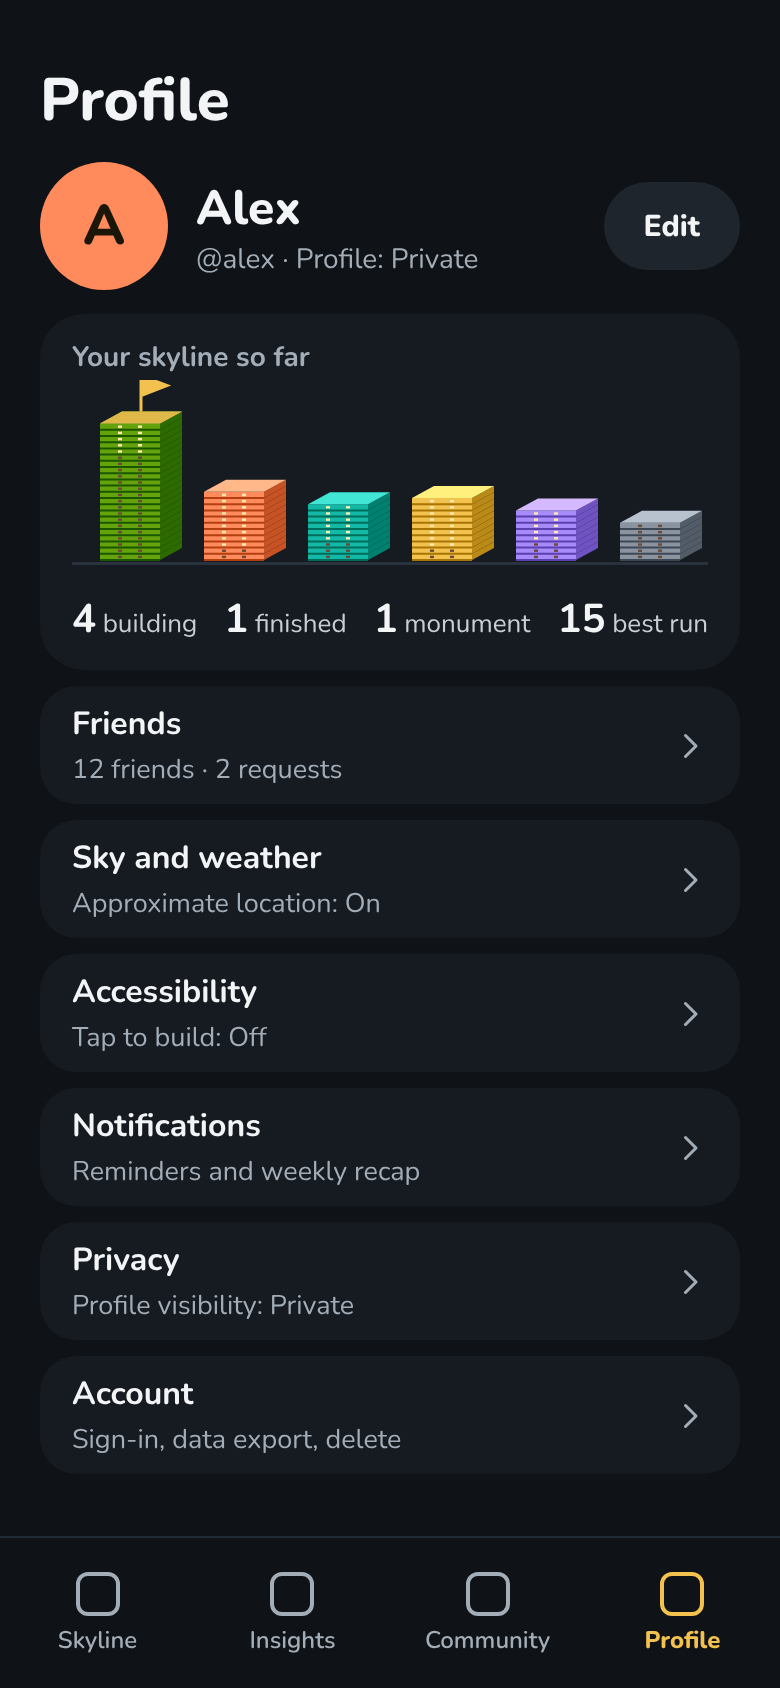
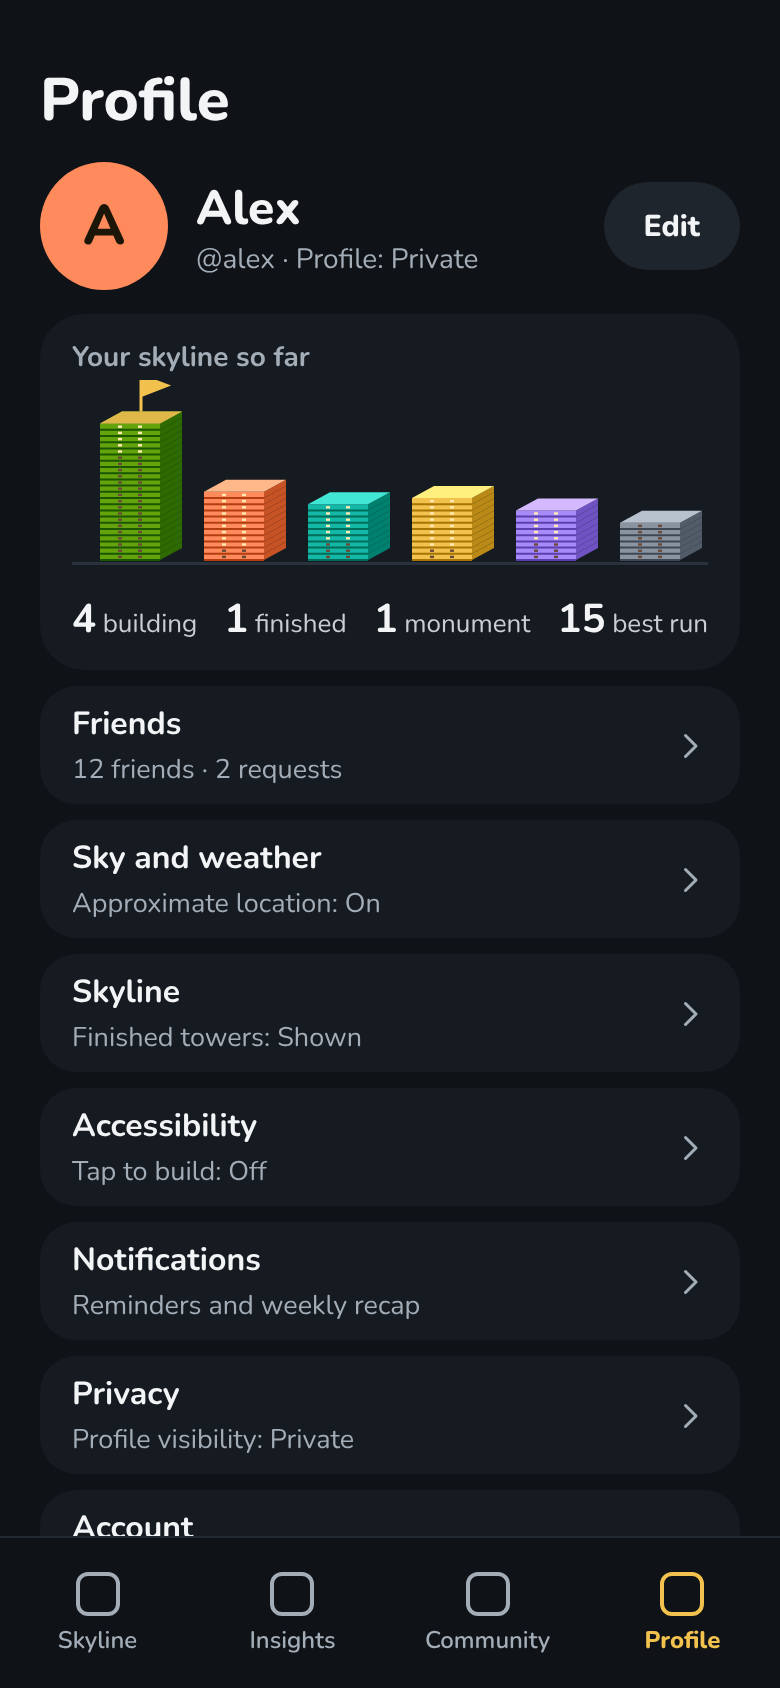
Design: show/hide finished towers (settings, per-habit override, combined list)
Claude-Session: https://claude.ai/code/session_01UvWD32uMFJU1E2B9jDYiLg

diff --git a/design/skyline/source/old.js b/design/skyline/source/old.js
@@ -1,7 +1,7 @@
 // Redraws of boards 02, 04, 05, 08, 09, 10, 11, 15 with the current floor art
 (function(){
 const Q3=new URLSearchParams(location.search);const S3=Q3.get('s');
-if(!/^(cm-|sh-|ch-|pf-|ho-|to-|sk-|ft-)/.test(S3||''))return;
+if(!/^(cm-|sh-|ch-|pf-|ho-|to-|sk-|ft-|fx-)/.test(S3||''))return;
 const R=document.getElementById('root');
 const tw=(col,o)=>{const old=C.front;C.front=col;const r=tower(o);C.front=old;return r};
 const grow=(n,lit,over={})=>Array.from({length:n},(_,i)=>over[i]||(i>=n-lit?'lit':'dark'));
@@ -76,7 +76,7 @@ if(S3==='pf-profile'){
    <div style="display:flex;align-items:center;gap:14px;margin-top:10px"><div style="width:64px;height:64px;border-radius:32px;background:#FF8A5C;color:#1b1608;font-weight:800;font-size:28px;display:flex;align-items:center;justify-content:center">A</div><div style="flex:1"><div style="font-size:24px;font-weight:800">Alex</div><div style="color:#A3ADB8;font-size:14px">@alex · Profile: Private</div></div><div style="height:44px;padding:0 20px;border-radius:22px;background:#1E252D;display:flex;align-items:center;font-weight:800;font-size:15px">Edit</div></div>
    <div style="margin-top:12px;background:#161B21;border-radius:22px;padding:12px 16px"><div style="color:#A3ADB8;font-size:14px;font-weight:700">Your skyline so far</div><svg width="318" height="98" style="display:block;margin-top:2px">${sc}<rect x="0" y="91" width="318" height="1.5" fill="#2A333D"/></svg>
     <div style="display:flex;justify-content:space-between;margin-top:8px;font-size:13px;color:#C9CED4">${[['4','building'],['1','finished'],['1','monument'],['15','best run']].map(([v,l])=>`<span><b style="font-size:20px;color:#F2F4F6">${v}</b> ${l}</span>`).join('')}</div></div>
-   ${row('Friends','12 friends · 2 requests')}${row('Sky and weather','Approximate location: On')}${row('Accessibility','Tap to build: Off')}${row('Notifications','Reminders and weekly recap')}${row('Privacy','Profile visibility: Private')}${row('Account','Sign-in, data export, delete')}</div></div>${tabBar(3)}`;
+   ${row('Friends','12 friends · 2 requests')}${row('Sky and weather','Approximate location: On')}${row('Skyline','Finished towers: Shown')}${row('Accessibility','Tap to build: Off')}${row('Notifications','Reminders and weekly recap')}${row('Privacy','Profile visibility: Private')}${row('Account','Sign-in, data export, delete')}</div></div>${tabBar(3)}`;
 }
 
 const night=(w,h,id)=>`<defs><linearGradient id="${id}" x1="0" y1="0" x2="0" y2="1"><stop offset="0" stop-color="#0B1030"/><stop offset="1" stop-color="#232a5a"/></linearGradient></defs><rect width="${w}" height="${h}" fill="url(#${id})"/>${Array.from({length:60},(_,i)=>`<circle cx="${(i*97)%w}" cy="${(i*53)%(h-60)+6}" r="${i%3?.9:1.4}" fill="#dfe6ff" opacity="${.35+(i%4)*.15}"/>`).join('')}`;
@@ -163,7 +163,23 @@ if(S3==='ft-sheet'){
    <div style="display:flex;gap:8px;margin-top:6px">${tile('26','Total built')}${tile('17 days','Best run here')}${tile('Sep 13','Started')}</div>
    <div style="color:#A3ADB8;font-size:13.5px;line-height:1.5;margin-top:12px">This tower stays on your skyline behind the new one. Your run carried over to the new tower.</div>
    <div style="margin-top:14px;height:54px;border-radius:27px;background:#F2C14E;color:#1b1608;font-weight:800;font-size:16.5px;display:flex;align-items:center;justify-content:center">See inside</div>
-   <div style="margin-top:4px;height:46px;display:flex;align-items:center;justify-content:center;font-weight:800;font-size:15px;color:#C9CED4">Close</div></div></div>`;
+   <div style="margin-top:2px;height:42px;display:flex;align-items:center;justify-content:center;font-weight:800;font-size:14.5px;color:#A3ADB8">Hide finished towers for Push ups</div><div style="height:40px;display:flex;align-items:center;justify-content:center;font-weight:800;font-size:15px;color:#C9CED4">Close</div></div></div>`;
+}
+
+const sw=(on)=>`<div style="width:52px;height:30px;border-radius:15px;background:${on?'#F2C14E':'#2F3944'};position:relative;flex:0 0 52px"><i style="position:absolute;top:3px;${on?'right:3px':'left:3px'};width:24px;height:24px;border-radius:12px;background:${on?'#1b1608':'#A3ADB8'};display:block"></i></div>`;
+if(S3==='fx-settings'){
+  R.innerHTML=`<div style="position:absolute;inset:0;overflow:hidden"><div style="padding:30px 20px 0"><div style="font-size:17px;font-weight:700">‹&nbsp; Profile</div><h1 style="font-size:30px;margin-top:14px">Skyline</h1></div>
+  <div style="padding:16px 20px 0"><div style="background:#161B21;border-radius:18px;padding:16px;display:flex;align-items:center;gap:14px"><div style="flex:1"><b style="font-size:16px">Show finished towers</b><div style="color:#A3ADB8;font-size:13.5px;line-height:1.45;margin-top:3px">Finished towers stay on your skyline, faded behind the current one. Turn this off to see only current towers.</div></div>${sw(true)}</div>
+  <div style="color:#A3ADB8;font-size:13.5px;line-height:1.5;margin:14px 4px 0">You can still open finished towers from the Retired and finished list. You can also change this for one habit in its Edit screen.</div></div></div>${tabBar(3)}`;
+}
+if(S3==='fx-list'){
+  const fin=[['Push ups','Topped out Oct 12 · 30 days','#A78BFA'],['Read 10 minutes','Topped out Sep 3 · 30 days','#38BDF8'],['Write 300 words','You topped it out Aug 18 · 21 days','#F2C14E']];
+  const ret=[['Drink water','heart-pulse'],['Meditate','meditation']];
+  const hd=(t)=>`<div style="color:#A3ADB8;font-size:12px;font-weight:800;letter-spacing:.8px;margin:18px 0 4px">${t}</div>`;
+  R.innerHTML=`<div style="position:absolute;inset:0;overflow:hidden"><div style="display:flex;align-items:center;justify-content:space-between;padding:30px 20px 10px"><div style="width:44px;height:44px;border-radius:22px;background:#1E252D;display:flex;align-items:center;justify-content:center;font-size:20px;color:#A3ADB8">×</div><div style="font-size:17px;font-weight:800">Retired and finished</div><div style="width:44px"></div></div>
+  <div style="padding:0 20px">${hd('FINISHED TOWERS')}${fin.map(([n,s,c])=>`<div style="display:flex;align-items:center;gap:12px;min-height:66px;border-bottom:1px solid #1F262E"><svg width="36" height="44" style="flex:0 0 36px">${tw('#7A6A58',{x:6,base:40,w:18,fh:1.9,dx:7,dy:4,floors:rep('dark',18),windows:1,today:false,wW:1.5,wH:.8})}<rect x="6" y="2" width="18" height="2" fill="${c}"/></svg><div style="flex:1;min-width:0"><div style="font-weight:700;font-size:15.5px">${n}</div><div style="color:#A3ADB8;font-size:13px;margin-top:1px">${s}</div></div>${ico('chev',18,'#A3ADB8')}</div>`).join('')}
+  ${hd('RETIRED TOWERS')}${ret.map(([n,i])=>`<div style="display:flex;align-items:center;gap:12px;min-height:64px;border-bottom:1px solid #1F262E"><div style="width:40px;height:40px;border-radius:12px;background:#232b34"></div><div style="flex:1;font-weight:700;font-size:15.5px;color:#C9CED4">${n}</div><div style="color:#F2C14E;font-weight:800;font-size:14.5px;padding:10px 6px">Restore</div><div style="padding:10px 6px;color:#7C8794;font-size:18px">🗑</div></div>`).join('')}
+  <div style="color:#A3ADB8;font-size:13px;margin-top:16px;line-height:1.45">Finished towers can be hidden from your skyline in Profile, Skyline. They stay here either way.</div></div></div>${tabBar(0)}`;
 }
 
 //END

diff --git a/design/skyline/source/new.js b/design/skyline/source/new.js
@@ -140,7 +140,7 @@ if(S2==='fo-landmark'){
 }
 if(S2==='fo-edit'){
   R.innerHTML=formPage('Edit tower','Changes apply from today. Your floors and run stay as they are.','',
-   lab('Name your tower')+inp('Write 300 words')+lab('Category')+`<div style="display:flex;gap:8px;overflow:hidden">${chip('Creativity','#F2C14E',1)}${chip('Learning','#38BDF8')}${chip('Fitness','#FF8A5C')}${chip('Sleep','#A78BFA')}</div>`+lab('Tower color')+swatches(1)+hint('Used for this tower on your skyline and in Insights.')+lab('How often do you build a floor?')+seg2(['Daily','Weekly','Monthly'],0)+lab('What counts as a floor?')+seg2(['Check-off','An amount'],1)+stepRow('Amount per floor','300 words')+lab('Best time (optional)')+inp('8:00 PM')+lab('Why does this matter? (optional)')+inp('So the book gets finished')+lab('Top out after (days)')+`<div style="margin-top:0;height:56px;border-radius:16px;background:#161B21;display:flex;align-items:center;justify-content:space-between;padding:0 14px 0 16px"><b style="font-size:15px">Days</b><div style="display:flex;align-items:center;gap:14px"><div style="width:36px;height:36px;border-radius:18px;border:1px solid #2F3944;display:flex;align-items:center;justify-content:center;font-size:20px">−</div><b style="font-size:15px;min-width:76px;text-align:center">30</b><div style="width:36px;height:36px;border-radius:18px;border:1px solid #2F3944;display:flex;align-items:center;justify-content:center;font-size:20px">+</div></div></div>`+hint('Your tower tops out on its own after this many days, 35 at most. You can also top it out any time from the tower sheet.'),
+   lab('Name your tower')+inp('Write 300 words')+lab('Category')+`<div style="display:flex;gap:8px;overflow:hidden">${chip('Creativity','#F2C14E',1)}${chip('Learning','#38BDF8')}${chip('Fitness','#FF8A5C')}${chip('Sleep','#A78BFA')}</div>`+lab('Tower color')+swatches(1)+hint('Used for this tower on your skyline and in Insights.')+lab('How often do you build a floor?')+seg2(['Daily','Weekly','Monthly'],0)+lab('What counts as a floor?')+seg2(['Check-off','An amount'],1)+stepRow('Amount per floor','300 words')+lab('Best time (optional)')+inp('8:00 PM')+lab('Why does this matter? (optional)')+inp('So the book gets finished')+lab('Top out after (days)')+`<div style="margin-top:0;height:56px;border-radius:16px;background:#161B21;display:flex;align-items:center;justify-content:space-between;padding:0 14px 0 16px"><b style="font-size:15px">Days</b><div style="display:flex;align-items:center;gap:14px"><div style="width:36px;height:36px;border-radius:18px;border:1px solid #2F3944;display:flex;align-items:center;justify-content:center;font-size:20px">−</div><b style="font-size:15px;min-width:76px;text-align:center">30</b><div style="width:36px;height:36px;border-radius:18px;border:1px solid #2F3944;display:flex;align-items:center;justify-content:center;font-size:20px">+</div></div></div>`+hint('Your tower tops out on its own after this many days, 35 at most. You can also top it out any time from the tower sheet.')+lab('Finished towers')+seg2(['Same as Profile','Show','Hide'],0)+hint('Whether this habit\'s finished towers show behind the current one. Same as Profile follows Profile, Skyline.'),
    cta('Save changes'),`<div style="text-align:center;margin-top:10px;font-weight:800;font-size:14.5px;color:#C9CED4;height:44px;display:flex;align-items:center;justify-content:center">Delete tower</div>`);
 }
 

diff --git a/design/skyline/README.md b/design/skyline/README.md
@@ -23,7 +23,7 @@ This is the only folder of Skyline mockups. The old `concept _screens/` folder w
 | 12 | `12-newtower.png` | Lay a foundation form (create) | 4 | **APPROVED by the owner 2026-11-16 (redrawn).** The submit button now sits in a pinned footer with a fade, so the last field is no longer drawn under it. The subtitle says "build" instead of "check in" (skyline wording). Same fields as the old board; the real form has more (times per day, weekly/monthly target, remind me) that are not drawn. There is no top-out field on create because the create request does not accept one; it is on the edit form (board 45). | **2026-11-16 (owner):** forms approved as drawn, plus a new "Tower color" picker (12 swatches, one per tower, matching on the skyline and in Insights). The label "Category (sets the tower color)" became "Category". The swatch palette and the default for new and existing towers are **approved by the owner 2026-11-16** (palette and fallback: existing towers keep their category colour until the user picks one). **2026-11-17 (owner):** "Top out after (days)" is now the cap: default 30, 35 at most, set at creation and on edit. The tower tops out on its own at the cap (board 55), and a manual Top out stays available any day. Existing caps above 35 become 35.
 | 13 | `13-newshared.png` | Build together form | 4 | **APPROVED by the owner 2026-11-16 (redrawn).** Pinned footer; the two hidden "What friends see" options are now drawn (Full details, Status only, from the app). |
 | 14 | `14-newchallenge.png` | Raise a landmark form | 4 | **APPROVED by the owner 2026-11-16 (redrawn).** The subtitle wraps to two lines instead of running under the banner; the time box stays on one row; pinned footer. |
-| 15 | `15-profile.png` | Profile | 7 | **APPROVED by the owner 2026-11-16.** Redrawn 2026-11-16 with the current floor art: windows, a gold cap and flag on the finished tower, a grey monument. Same layout and words. |
+| 15 | `15-profile.png` | Profile | 7 | **APPROVED by the owner 2026-11-16.** Redrawn 2026-11-16 with the current floor art: windows, a gold cap and flag on the finished tower, a grey monument. Same layout and words. | **2026-11-17:** adds a "Skyline · Finished towers: Shown" row after Sky and weather (the page scrolls; the last row is below the fold). **PROPOSAL, awaiting owner approval.**
 | 16 | `16-weekly-monthly.png` | Skyline, Weekly and monthly view (per-day heatmap lots) | 2b | current (was `concept _screens/2-weekly-monthly.png`) | Header updated 2026-11-16 with the retired-towers icon; the subtitle stays on one line.
 | 17 | `17-lot-sheet-weekly.png` | Lot sheet, weekly | 2b | current (was `3-lot-sheet-weekly.png`) |
 | 18 | `18-add-for-another-day.png` | Add for another day | 2b / 3 | current (was `4-add-for-another-day.png`) |
@@ -49,14 +49,16 @@ This is the only folder of Skyline mockups. The old `concept _screens/` folder w
 | 42 | `42-ask-habituate-empty.png` | Ask Habituate, empty state with starter questions | 7 | **APPROVED by the owner 2026-11-16.** Starter questions are generated from the user's habits in the app; the three shown and the heading text are my sample copy. |
 | 43 | `43-friend-skyline-public.png` | Friend skyline, public profile | 6 | **PROPOSAL, awaiting approval (revised 2026-11-16 per the owner).** Towers without habit names, each in the habit's own colour, with finished towers shown faded behind the current one (up to two, as on your own skyline). Needs a friendship-gated endpoint returning floors, colour and a finished-tower count, but no names. The developer has sent a plan; backend not yet approved. |
 | 44 | `44-friend-skyline-private.png` | Friend skyline, private profile | 6 | **PROPOSAL, awaiting approval.** Only the shared-habit towers you both belong to, joined by a skybridge, plus the existing "keeps their stats private" note. Needs floor and run data for shared towers, which the server does not return today. |
-| 45 | `45-edit-tower.png` | Edit tower form | 4 | **APPROVED by the owner 2026-11-16.** Same fields as board 12 plus "Top out after (days)" (default 30) with its existing sublabel, then Save changes and Delete tower. The subtitle is my wording. The real form has more fields than drawn (times per day, weekly/monthly target, remind me, feature on Goals). | **2026-11-16 (owner):** forms approved as drawn, plus a new "Tower color" picker (12 swatches, one per tower, matching on the skyline and in Insights). The label "Category (sets the tower color)" became "Category". The swatch palette and the default for new and existing towers are **approved by the owner 2026-11-16** (palette and fallback: existing towers keep their category colour until the user picks one). **2026-11-17 (owner):** "Top out after (days)" is now the cap: default 30, 35 at most, set at creation and on edit. The tower tops out on its own at the cap (board 55), and a manual Top out stays available any day. Existing caps above 35 become 35.
+| 45 | `45-edit-tower.png` | Edit tower form | 4 | **APPROVED by the owner 2026-11-16.** Same fields as board 12 plus "Top out after (days)" (default 30) with its existing sublabel, then Save changes and Delete tower. The subtitle is my wording. The real form has more fields than drawn (times per day, weekly/monthly target, remind me, feature on Goals). | **2026-11-16 (owner):** forms approved as drawn, plus a new "Tower color" picker (12 swatches, one per tower, matching on the skyline and in Insights). The label "Category (sets the tower color)" became "Category". The swatch palette and the default for new and existing towers are **approved by the owner 2026-11-16** (palette and fallback: existing towers keep their category colour until the user picks one). **2026-11-17 (owner):** "Top out after (days)" is now the cap: default 30, 35 at most, set at creation and on edit. The tower tops out on its own at the cap (board 55), and a manual Top out stays available any day. Existing caps above 35 become 35. **2026-11-17:** adds "Finished towers" (Same as Profile / Show / Hide), the per-habit override. **PROPOSAL, awaiting owner approval.**
 | 46–50 | `46-tour-step-1.png` … `50-tour-step-5.png` | Onboarding tour, 5 steps | 7 | **APPROVED by the owner 2026-11-16.** SKYLINE §5 step 7: the skyline, hold to build, tap a tower, Community, Profile. A dimmed screen with an amber spotlight, a card with "N OF 5", Skip, dots and Next (Done on the last). **All wording is mine.** The spotlight targets must be registered with useTourTarget. |
 | 51 | `51-monument-sheet.png` | Retired tower (monument) sheet | 3 | **APPROVED by the owner 2026-11-16.** The owner asked that tapping a grey monument shows that tower's stats and a Restore option. Stats drawn: total built (the tower sheet's existing stat), best run, started date (the app has both best run and the created date). The owner chose Total built over an approximate floors count on 2026-11-16. |
 | 52 | `52-full-tower-warning.png` | Pop-up: tower tops out in 3 days | 3 | **APPROVED by the owner 2026-11-17.** Shown once per tower, 3 days before that tower's own cap (day 27 for a 30-day cap), when opening Skyline. "Top out now" or "Not now". All wording is mine. |
 | 53 | `superseded/53-full-tower-blocked.png` | Full tower: blocked state | 3 | **dropped by the owner 2026-11-17**: towers now top out on their own at the cap, so there is no block and no run-protection rule. |
 | 54 | `superseded/54-full-tower-fit-to-height.png` | Full tower: fit to height | 3 | **not chosen** (2026-11-17). |
 | 55 | `55-tower-topped-out-automatically.png` | Announcement: tower topped out on its own | 3 | **APPROVED by the owner 2026-11-17.** Shown when a tower reaches its cap: the finished tower fades behind a fresh one. "Got it" or "Change cap" (opens Edit). All wording is mine. |
-| 56 | `56-finished-tower-sheet.png` | Finished tower sheet (tap a faded, topped-out tower) | 3 | **PROPOSAL, awaiting owner approval (2026-11-17).** Opens from tapping a finished tower behind a habit's current one. Shows the faded gold-capped tower, name, when it topped out and how long it stood, a chip "Topped out on its own at the cap" (or "You topped it out" for a manual top-out), total built, best run in that tower, started date, and See inside (the finished tower's inside view) and Close. Wording is mine. The developer confirms which of these figures exist per finished tower. |
+| 56 | `56-finished-tower-sheet.png` | Finished tower sheet (tap a faded, topped-out tower) | 3 | **PROPOSAL, awaiting owner approval (2026-11-17).** Opens from tapping a finished tower behind a habit's current one. Shows the faded gold-capped tower, name, when it topped out and how long it stood, a chip "Topped out on its own at the cap" (or "You topped it out" for a manual top-out), total built, best run in that tower, started date, and See inside (the finished tower's inside view) and Close. Wording is mine. The developer confirms which of these figures exist per finished tower. | **Update 2026-11-17 (owner):** adds "Hide finished towers for <habit>" (the per-habit switch).
+| 57 | `57-skyline-settings.png` | Profile, Skyline settings | 7 | **PROPOSAL, awaiting owner approval (2026-11-17).** One switch, "Show finished towers", on by default. Reached from the new Profile row. All wording is mine. |
+| 58 | `58-retired-and-finished-list.png` | Retired and finished list | 3 | **PROPOSAL, awaiting owner approval.** The Retired towers screen (header icon) gains a "Finished towers" section above Retired; each finished row opens the finished-tower sheet (56). This is where finished towers are reached when hidden from the skyline. Titles and dates are sample copy. |
 
 `superseded/` keeps old versions and boards that were not chosen (01, 03, 06, 07, 22, 23, 25, 53, 54). Don't build from them.
 
